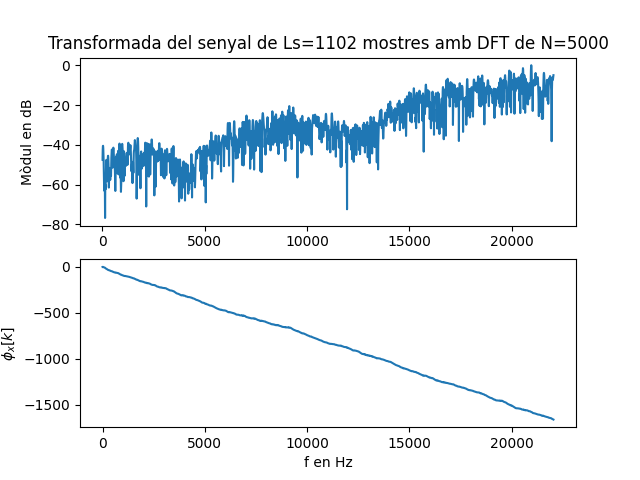
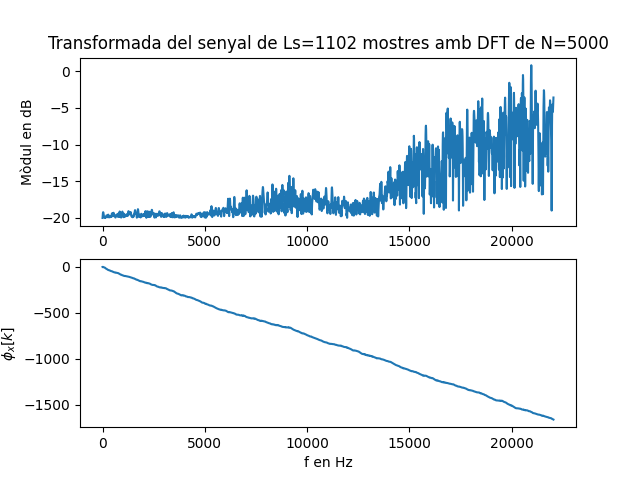
Practica1 acabada

diff --git a/Codis/prova4.py b/Codis/prova4.py
@@ -5,23 +5,24 @@ import sounddevice as sd
 from numpy.fft import fft 
 
 T= 0.025                               
-data, fm =sf.read('Gorilla.wav')       
+x_r, fm =sf.read('Gorilla.wav')       
 L = int(fm * T)                     
 Tm=1/fm                            
 t=Tm*np.arange(L)                  
-sf.write('exercici4.wav', data, fm)  
+sf.write('exercici4.wav', x_r, fm)  
 
 plt.figure(4)                          
-plt.plot(t[0:L],data[0:L])              
+plt.plot(t[0:L],x_r[0:L])              
 plt.xlabel('t en segons')               
 plt.title('Exercici 4')  
 plt.show()  
+sd.play(x_r, fm)
 
 N=5000                        
-X=fft(data[0 : L], N)    
+X=fft(x_r[0 : L], N)    
 k=np.arange(N)                                         
 plt.figure(42)                         
-XdB = 20*np.log(np.abs(X)/max(np.abs(X)))
+XdB = 20*np.log10(1.e-1 + np.abs(X)/(max(np.abs(X))))
 fk = k[0:N//2+1]*fm/N
 plt.subplot(211)   
 plt.plot(fk,XdB[0:N//2+1])  # Representació del mòdul de la transformada en dB y de 0 a FK/2

diff --git a/Codis/Prova3.py b/Codis/Prova3.py
@@ -32,8 +32,8 @@ k=np.arange(N)
 
 plt.figure(31)
 
-XdB = 20*(np.log10(np.abs(X)/max(np.abs(X))))
-fk = (k/N)*fm
+XdB =  20*np.log10(1.e-1 + np.abs(X)/(max(np.abs(X))))
+fk = (k/N)*(fm/2)
                         
 plt.subplot(211)
  

diff --git a/README.md b/README.md
@@ -151,43 +151,6 @@ plt.plot(k,np.unwrap(np.angle(X)))
 plt.xlabel('Index k')                  
 plt.ylabel('$\phi_x[k]$')   
 plt.show() 
-
-
-sf.write('exercici2.wav', x, fm)  
-
-plt.figure(121)                             
-plt.plot(t[0:Ls], x[0:Ls])                
-plt.xlabel('t en segons')                
-plt.title('5 periodes de la sinusoide')   
-plt.show()  
-
-sd.play(x, fm)
-
-plt.figure(12)
-plt.subplot(211)
-plt.plot(k, abs(X)) 
-plt.title('Transformada del senyal de Ls={Ls} mostres amb DFT de N={N}')   
-plt.ylabel('|X[k]|') 
-plt.subplot(212)
-plt.plot(k,np.unwrap(np.angle(X))) 
-plt.xlabel('Index k')                  
-plt.ylabel('$\phi_x[k]$') 
-plt.show()
-
-XdB = 20*np.log10(np.abs(X)/max(np.abs(X)))
-fk = (k/N)*fm
-
-plt.figure(2)                        
-plt.subplot(211)
- 
-plt.plot(fk,XdB)                   
-plt.title('Transformada del senyal de Ls={Ls} mostres amb DFT de N={N}')   
-plt.ylabel('|X[k]|')                 
-plt.subplot(212)                      
-plt.plot(k,np.unwrap(np.angle(XdB)))    
-plt.xlabel('Index k')                  
-plt.ylabel('$\phi_x[k]$')             
-plt.show()  
 ```
 
 Resposta: Al variar la freqüència a 4kHz, el so es torna més agut que en el cas anterior amb una freqüència a 440Hz.
@@ -255,26 +218,59 @@ Com que la senyal d'entrada és una sinusoide, si fem la transformada d'aquesta 
     $0$ a $f_m/2$ en Hz.
 
 ```python
-import math as ma
+import numpy as np
+import matplotlib.pyplot as plt
+import soundfile as sf
+import sounddevice as sd 
+from numpy.fft import fft 
 
-plt.figure(2)                        
-plt.subplot(211)  
+T= 2.5                              
+fm=8000                              
+fx=4000                               
+A=4                                  
+pi=np.pi                             
+L = int(fm * T)                     
+Tm=1/fm                              
+t=Tm*np.arange(L)                   
+x = A * np.cos(2 * pi * fx * t)      
+sf.write('exercici3.wav', x, fm)  
+x_r, fm = sf.read('exercici3.wav')
+Tx=1/fx                                   
+Ls=int(fm*5*Tx) 
 
-XdB = 20*np.log(abs(X)/max(X))
-fk = (k/N)*fm
+plt.figure(3)                             
+plt.plot(t[0:Ls], x[0:Ls])               
+plt.xlabel('t en segons')                 
+plt.title('Ex 3')  
+plt.show() 
 
+sd.play(x, fm)
+
+N=5000                        
+X=fft(x[0 : Ls], N)  
+k=np.arange(N)
+
+plt.figure(31)
+
+XdB =  20*np.log10(1.e-1 + np.abs(X)/(max(np.abs(X))))
+fk = (k/N)*(fm/2)
+                        
+plt.subplot(211)
+ 
 plt.plot(fk,XdB)                   
 plt.title('Transformada del senyal de Ls={Ls} mostres amb DFT de N={N}')   
 plt.ylabel('|X[k]|')                 
 plt.subplot(212)                      
-plt.plot(k,np.unwrap(np.angle(XdB)))    
-plt.xlabel('Index k')                  
-plt.ylabel('$\phi_x[k]$')             
+plt.plot(fk,np.unwrap(np.angle(XdB)))    
+plt.xlabel('fk (Hz)')                  
+plt.ylabel('$\phi_x[k]$')    
 plt.show()  
 ```
 
 
 - Comprova que la mesura de freqüència es correspon amb la freqüència de la sinusoide que has fet servir.
+
+<img src="img/Figure31.png" width="400" align="center">
 
 - Com pots identificar l'amplitud de la sinusoide a partir de la representació de la transformada?
       Comprova-ho amb el senyal generat.
@@ -305,23 +301,24 @@ import sounddevice as sd
 from numpy.fft import fft 
 
 T= 0.025                               
-data, fm =sf.read('Gorilla.wav')       
+x_r, fm =sf.read('Gorilla.wav')       
 L = int(fm * T)                     
 Tm=1/fm                            
 t=Tm*np.arange(L)                  
-sf.write('exercici4.wav', data, fm)  
+sf.write('exercici4.wav', x_r, fm)  
 
 plt.figure(4)                          
-plt.plot(t[0:L],data[0:L])              
+plt.plot(t[0:L],x_r[0:L])              
 plt.xlabel('t en segons')               
 plt.title('Exercici 4')  
 plt.show()  
+sd.play(x_r, fm)
 
 N=5000                        
-X=fft(data[0 : L], N)    
+X=fft(x_r[0 : L], N)    
 k=np.arange(N)                                         
 plt.figure(42)                         
-XdB = 20*np.log(np.abs(X)/max(np.abs(X)))
+XdB = 20*np.log10(1.e-1 + np.abs(X)/(max(np.abs(X))))
 fk = k[0:N//2+1]*fm/N
 plt.subplot(211)   
 plt.plot(fk,XdB[0:N//2+1])  # Representació del mòdul de la transformada en dB y de 0 a FK/2
